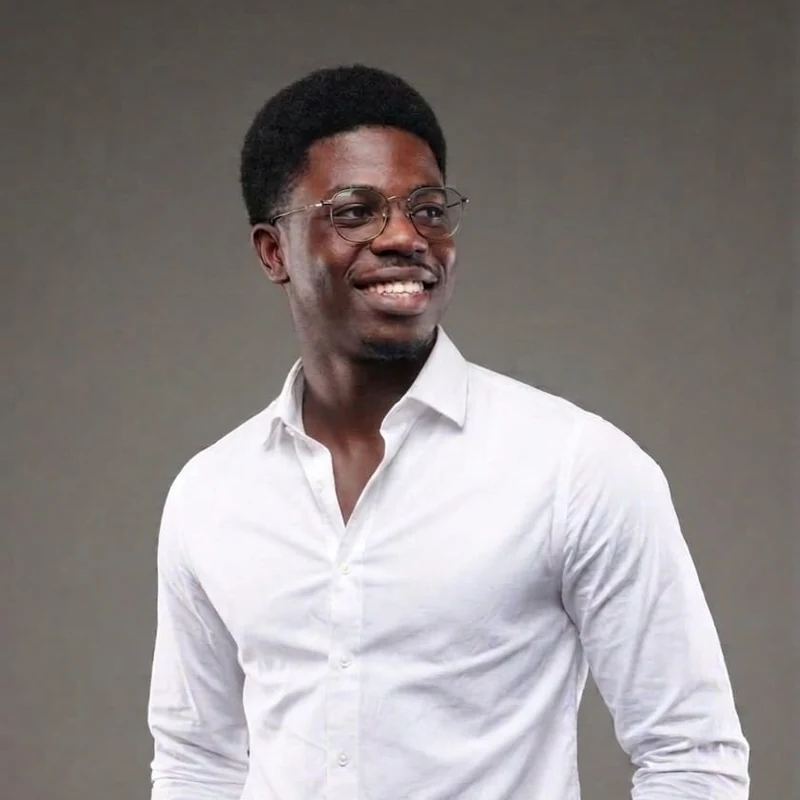
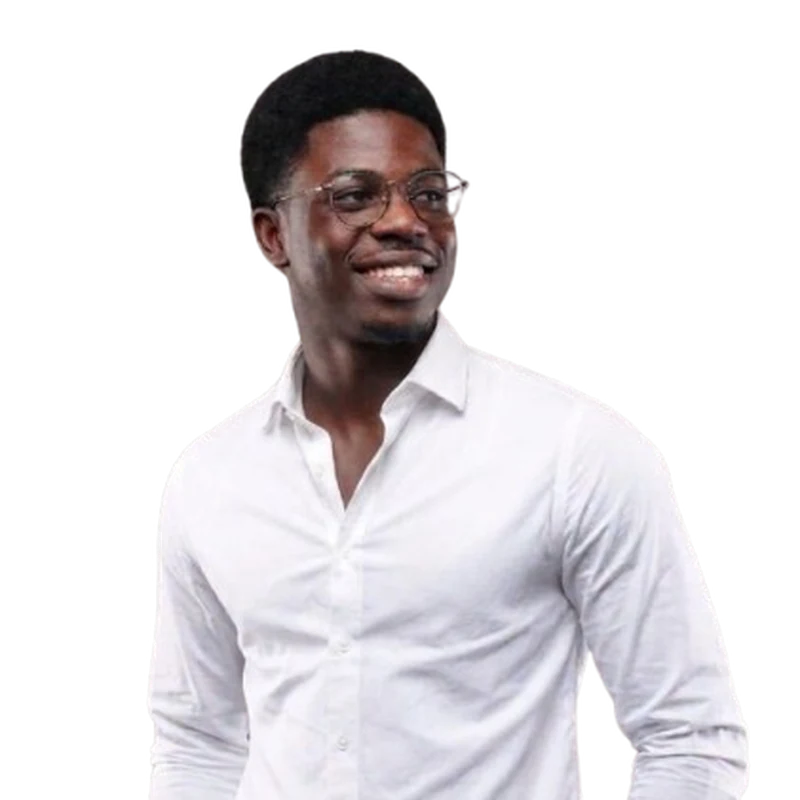
Accueil : photo de profil détourée

diff --git a/index.html b/index.html
@@ -133,7 +133,7 @@
                     <div class="hero-mockup-right" data-aos="fade-left">
                         <div class="hero-portrait-circle-outer">
                             <div class="hero-portrait-circle-inner">
-                                <img width="800" height="800" fetchpriority="high" src="assets/img/mourchid-hero.webp?v=3" alt="Mourchid FOLARIN — Architecte Backend & Cybersécurité">
+                                <img width="800" height="800" fetchpriority="high" src="assets/img/mourchid-hero.webp?v=4" alt="Mourchid FOLARIN — Architecte Backend & Cybersécurité">
                             </div>
                         </div>
 
